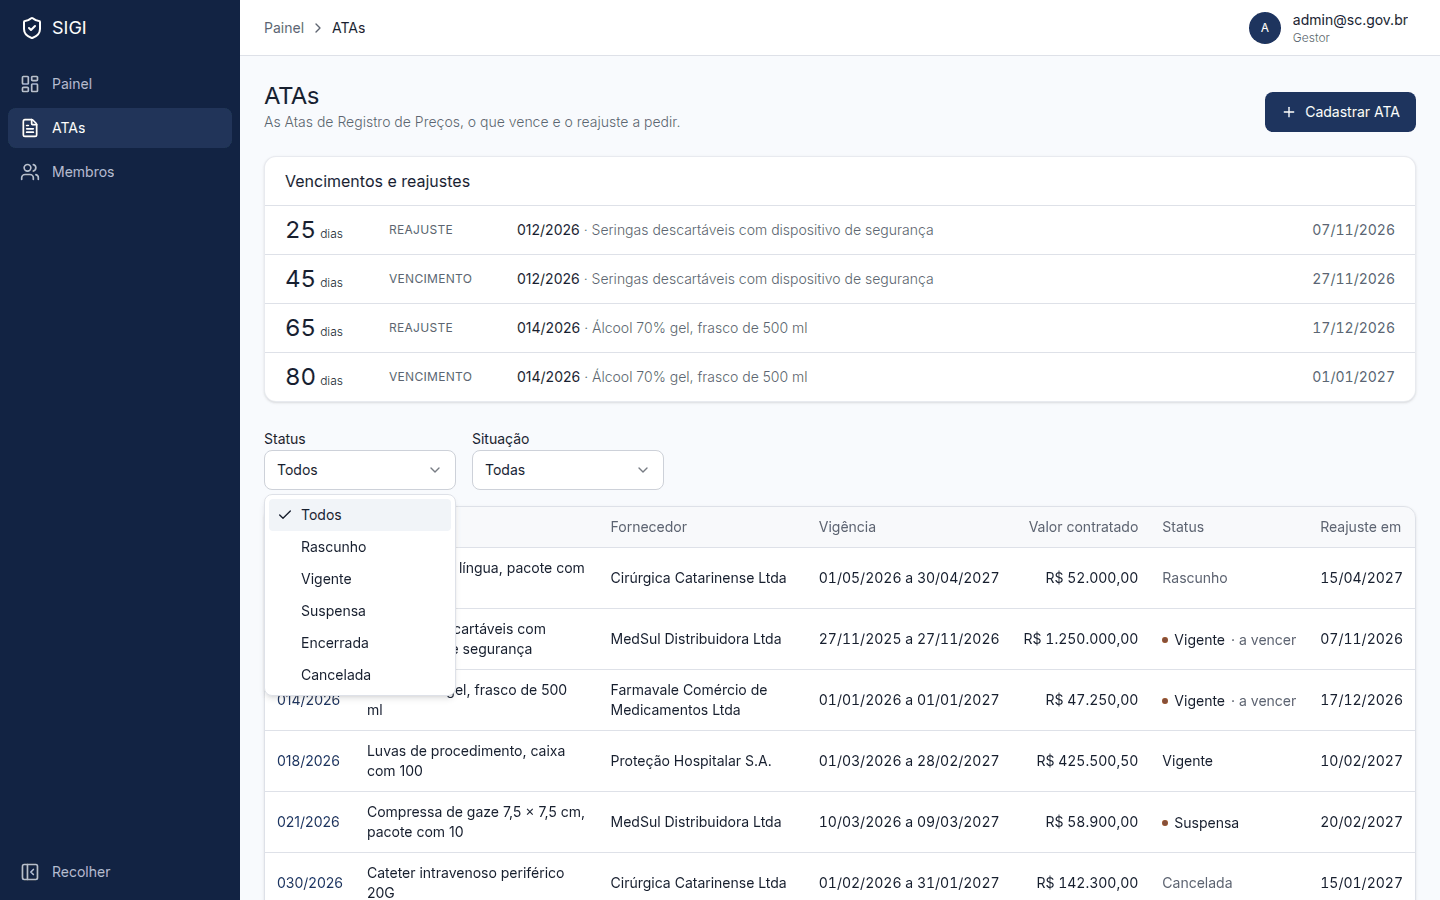
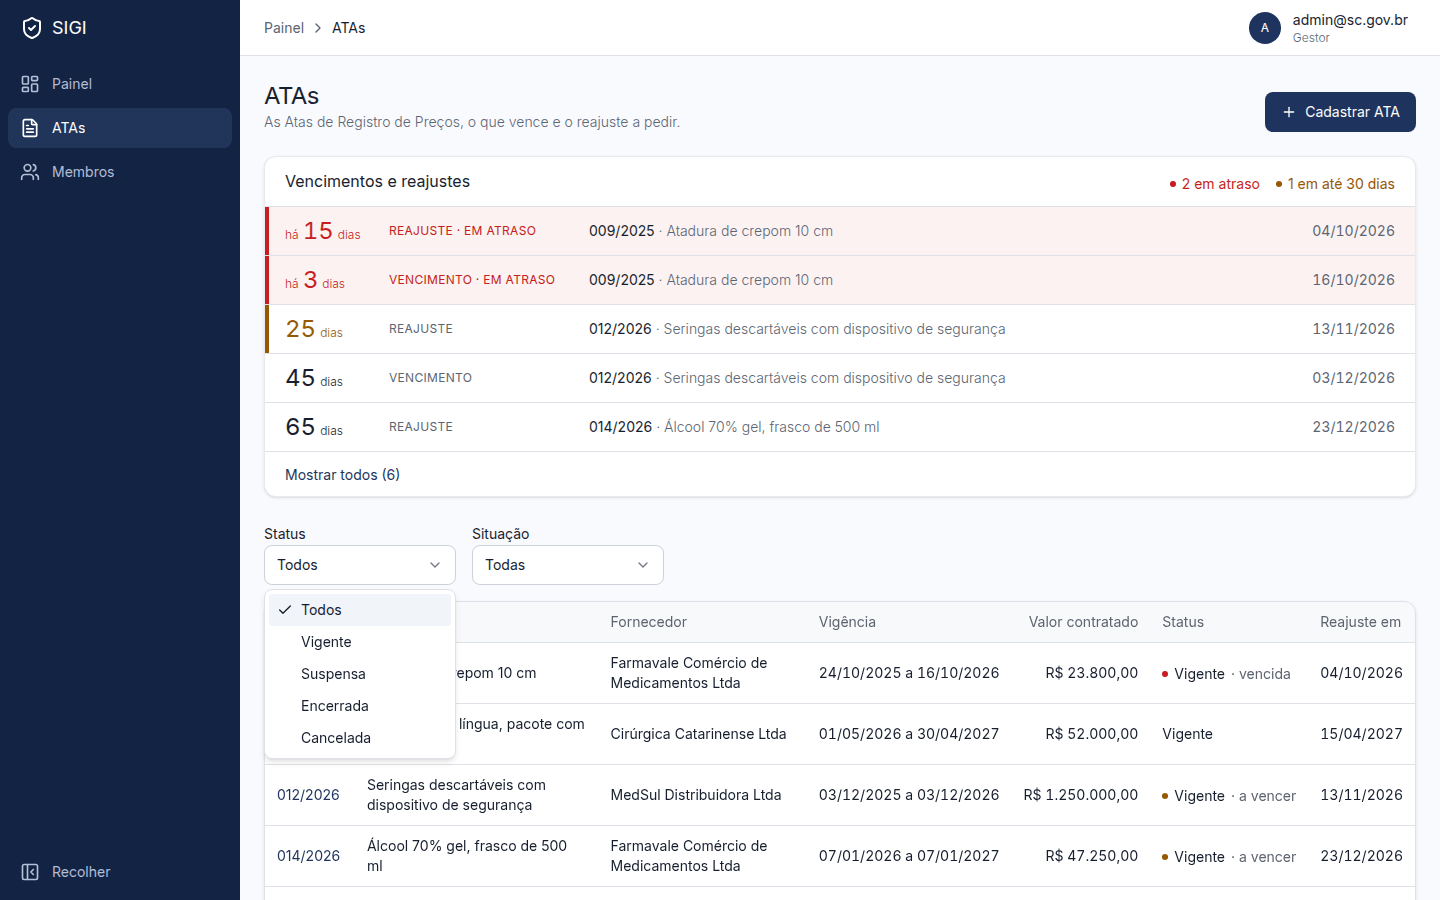
docs: update the ATA user flow, design rules and open questions for the review step [SPEC-0013]
Claude-Session: https://claude.ai/code/session_019RhEfvDpREPTTn55Dme5Wi

diff --git a/docs/product/user-flows/atas.md b/docs/product/user-flows/atas.md
@@ -6,7 +6,7 @@ something is refused. The behaviour is SPEC-0013's (screens) and SPEC-0002's
 (rules); where this file and a spec disagree, the spec wins.
 
 The screenshots under [`atas/`](atas/) were taken from the running application
-on 13/10/2026, with fictional ATAs and fornecedores, in a 1440 px browser set
+on 19/10/2026, with fictional ATAs and fornecedores, in a 1440 px browser set
 to pt-BR. A screenshot ages with the screen: retake it in the PR that changes
 what it shows.
 
@@ -17,7 +17,7 @@ what it shows.
 | See the list, the alerts and any ATA | ✓ | ✓ | ✓ |
 | Cadastrar ATA | ✓ | — | — |
 | Editar | ✓ | — | — |
-| Ativar, Suspender, Retomar, Encerrar, Cancelar | ✓ | — | — |
+| Suspender, Retomar, Encerrar, Cancelar | ✓ | — | — |
 | Registrar aditivo | ✓ | — | — |
 | Registrar pedido de reajuste | ✓ | — | — |
 | Delete an ATA | — | — | — |
@@ -32,10 +32,12 @@ flowchart LR
   sidebar[Sidebar: ATAs] --> lista["/atas"]
   lista -->|row or alert| ata["/atas/{id}"]
   lista -->|Cadastrar ATA| cadastro["/atas/nova"]
-  cadastro -->|201| ata
+  cadastro -->|Revisar cadastro| revisao[Confira os dados]
+  revisao -->|Voltar e corrigir| cadastro
+  revisao -->|Confirmar cadastro, 201| ata
   cadastro -->|Voltar| lista
   ata -->|Editar| edicao["/atas/{id}/editar"]
-  ata -->|Ativar, Suspender, Retomar, Encerrar| confirmacao[Confirmation]
+  ata -->|Suspender, Retomar, Encerrar| confirmacao[Confirmation]
   ata -->|Cancelar| cancelamento[Confirmation with Justificativa]
   ata -->|Registrar aditivo| aditivo[Dialog: Registrar aditivo]
   ata -->|Registrar pedido de reajuste| reajuste[Dialog: Registrar pedido de reajuste]
@@ -50,13 +52,11 @@ flowchart LR
 
 ```mermaid
 stateDiagram-v2
-  [*] --> rascunho: Cadastrar ATA
-  rascunho --> vigente: Ativar
+  [*] --> vigente: Confirmar cadastro
   vigente --> suspensa: Suspender
   suspensa --> vigente: Retomar
   vigente --> encerrada: Encerrar
   suspensa --> encerrada: Encerrar
-  rascunho --> cancelada: Cancelar (justificativa)
   vigente --> cancelada: Cancelar (justificativa)
   suspensa --> cancelada: Cancelar (justificativa)
   encerrada --> [*]
@@ -81,9 +81,9 @@ the situação only where it says something (DESIGN.md §4):
 | Vigente | A vencer | Vigente · a vencer | amber dot |
 | Vigente | Vencida | Vigente · vencida | red dot |
 | Suspensa | any | Suspensa (· a vencer, · vencida) | amber dot, red when vencida |
-| Rascunho, Encerrada, Cancelada | any | Rascunho, Encerrada, Cancelada | grey text |
+| Encerrada, Cancelada | any | Encerrada, Cancelada | grey text |
 
-A rascunho or an encerrada ATA still has a situação, and the Situação filter
+An encerrada or cancelada ATA still has a situação, and the Situação filter
 still finds it, but it is not shown, because nobody acts on it. The 90 days are
 configurable (`ATA_ALERT_DAYS`).
 
@@ -164,11 +164,20 @@ reads as empty.
 the way the ATA page groups them: **Identificação** (Número, Órgão, Objeto),
 **Fornecedor** (CNPJ, Razão social), **Vigência** (Início, Fim, Data de
 emissão) and **Valores** (Valor total, Data do orçamento planilhado). "Voltar"
-and "Cadastrar" stay at the foot of the screen however far down the page is
-scrolled. The ATA is created as a **rascunho**: it counts for nothing until a
-gestor activates it. "Voltar" returns to the list and saves nothing.
+and "Revisar cadastro" stay at the foot of the screen however far down the page
+is scrolled. "Voltar" returns to the list and saves nothing.
 
-![The empty dialog](atas/05-cadastrar-vazio.png)
+**Nothing is saved until the gestor confirms.** "Revisar cadastro" shows every
+value as it will be saved; "Confirmar cadastro" saves the ATA, **vigente** from
+that moment. There is no rascunho and no activation step.
+
+![The empty form](atas/05-cadastrar-vazio.png)
+
+Every field has an **"i"** beside its label. Choosing it (click, Enter or
+Space) opens what the field is and what the system accepts; Escape or a click
+anywhere else closes it.
+
+![A field's explanation](atas/07-ajuda-campo.png)
 
 ### Fields
 
@@ -177,7 +186,7 @@ gestor activates it. "Voltar" returns to the list and saves nothing.
 | Número | Yes | Up to 60 characters, unique among all ATAs | Not empty | "Use no máximo 60 caracteres." · "Já existe uma ATA com este número. Confira o número ou abra a existente." |
 | Objeto | Yes | Free text | Not empty | "Campo obrigatório." |
 | Órgão | Yes | Up to 200 characters | Not empty | "Use no máximo 200 caracteres." |
-| CNPJ do fornecedor | Yes | 14 digits with valid check digits, typed with or without punctuation; shown as 00.000.000/0000-00 while typing | Not empty | "CNPJ inválido." (wrong length, wrong check digits, or all digits equal) |
+| CNPJ do fornecedor | Yes | 14 characters with valid check digits, typed with or without punctuation; since 2026 the first 12 may be letters (alphanumeric CNPJ); shown as 00.000.000/0000-00 while typing, letters uppercased | Not empty | "CNPJ inválido." (wrong length, wrong check digits, letters in the check digits, or one character repeated) |
 | Razão social | Yes | Up to 200 characters | Not empty | "Use no máximo 200 caracteres." |
 | Data de emissão (opcional) | No | A date | — | "Data inválida." |
 | Início da vigência | Yes | A date | Not empty | "Data inválida." |
@@ -193,26 +202,35 @@ typed. There is no separate fornecedor screen.
 **Money is never rounded.** "10,005" is sent as `10.005` and refused; it is
 not turned into 10,01.
 
-### What happens on Cadastrar
+### What happens on Revisar cadastro and Confirmar cadastro
 
 1. The screen checks only that every required field is filled. An empty one
-   reads "Campo obrigatório." and nothing is sent.
+   reads "Campo obrigatório." and the review does not open.
 
    ![Required fields left empty](atas/06-cadastrar-obrigatorios.png)
 
-2. The API checks the rest. Each refusal appears under the field it names, the
-   field is outlined in red, the cursor moves to the first one, and everything
-   typed stays. The API reports schema errors (lengths, formats) all at once,
-   and business errors (vigência, CNPJ, número repetido) one at a time, so
-   fixing one may reveal the next.
+2. **Confira os dados antes de cadastrar** lists every value as it will be
+   saved: dates as dd/MM/yyyy, money as R$, an empty optional field as "Não
+   informado". Nothing has been sent yet. "Voltar e corrigir" returns to the
+   form with everything typed kept.
 
-   ![A CNPJ with wrong check digits](atas/07-cadastrar-cnpj-invalido.png)
+   ![The review](atas/08-revisar-cadastro.png)
 
-   ![A número already in use](atas/08-cadastrar-numero-duplicado.png)
+3. "Confirmar cadastro" sends it. The API checks the rest; if it refuses, the
+   form returns and each refusal appears under the field it names, the field is
+   outlined in red, the cursor moves to the first one, and everything typed
+   stays. The API reports schema errors (lengths, formats) all at once, and
+   business errors (vigência, CNPJ, número repetido) one at a time, so fixing
+   one may reveal the next.
 
-3. On success the ATA's page opens with "ATA cadastrada como rascunho."
+   ![A CNPJ with wrong check digits](atas/09-cadastrar-cnpj-invalido.png)
 
-   ![The new ATA](atas/09-ata-cadastrada.png)
+   ![A número already in use](atas/10-cadastrar-numero-duplicado.png)
+
+4. On success the new ATA's page opens, vigente. No banner repeats it: the page
+   is the result.
+
+   ![The new ATA](atas/11-ata-cadastrada.png)
 
 ---
 
@@ -240,24 +258,22 @@ ATAs**.
 
 ## 4. Edit an ATA (gestor)
 
-**Editar** opens `/atas/{id}/editar`, the registration page filled in. Only the
-fields that changed are sent; on success the ATA's page opens with "ATA
-atualizada.". "Voltar" returns to the ATA and saves nothing.
+**Editar** corrects what was typed. It opens `/atas/{id}/editar`, the
+registration page filled in, and saves directly, without a review. Only the
+fields that changed are sent; on success the ATA's page opens with the new
+values and no banner. "Voltar" returns to the ATA and saves nothing.
 
 | Status | What can be edited |
 | --- | --- |
-| Rascunho | Every field, including Número, the fornecedor, the dates and the valor |
-| Vigente, Suspensa, Encerrada, Cancelada | Objeto and Órgão only |
+| Vigente, Suspensa | Every field, including Número, the fornecedor, the dates and the valor |
+| Encerrada, Cancelada | Nothing: "Editar" is not offered, and the address reads "Uma ATA encerrada ou cancelada não pode ser editada." |
 
-![Editing a rascunho](atas/10-editar-rascunho.png)
+![Correcting an ATA](atas/12-editar.png)
 
-After activation the other fields are shown greyed out, with "Depois de
-ativada, valores e prazos só mudam por aditivo." The contracted figures change
-only through an aditivo, so what was contracted is never overwritten. If the
-API refuses an edit because the ATA changed meanwhile (`ATA_NAO_EDITAVEL`), the
-message shows on the page and the form reloads the ATA as it now is.
-
-![Editing after activation](atas/13-editar-vigente.png)
+**Editar or aditivo?** Editar corrects a typing mistake; an aditivo changes what
+was contracted, with a justification and the 25% ceiling. Both keep the previous
+values in the ATA's history. Once NEs exist (SPEC-0004), an ATA with an NE
+emitida locks its figures and only an aditivo changes them.
 
 The same field rules as registration apply; a refusal lands on its field.
 
@@ -270,18 +286,15 @@ naming the ATA and what the move does.
 
 | Status | Buttons offered | Result |
 | --- | --- | --- |
-| Rascunho | Ativar, Cancelar | Ativar → Vigente |
 | Vigente | Suspender, Encerrar, Cancelar | Suspender → Suspensa · Encerrar → Encerrada |
 | Suspensa | Retomar, Encerrar, Cancelar | Retomar → Vigente · Encerrar → Encerrada |
 | Encerrada | None | Final |
 | Cancelada | None | Final |
 
-![Confirming Ativar](atas/11-ativar-confirmar.png)
+![Confirming Suspender](atas/13-suspender-confirmar.png)
 
-On success the status line changes and the page says "ATA ativada.", "ATA
-suspensa.", "ATA retomada.", "ATA encerrada." or "ATA cancelada.".
-
-![After activation](atas/12-ata-ativada.png)
+On success the status line changes. No banner is shown; a screen reader hears
+"ATA suspensa.", "ATA retomada.", "ATA encerrada." or "ATA cancelada.".
 
 ![A suspended ATA](atas/18-ata-suspensa.png)
 
@@ -295,7 +308,7 @@ audit trail. The confirmation's own close button reads "Voltar", because
 ![Cancelar with a justificativa](atas/20-cancelar-com-justificativa.png)
 
 Encerrar and Cancelar cannot be undone. An encerrada or cancelada ATA offers no
-move, and Editar there changes only Objeto and Órgão.
+move and no Editar.
 
 ![A cancelled ATA](atas/21-ata-cancelada.png)
 
@@ -311,7 +324,7 @@ the ATA with its real status.
 ## 6. Register an aditivo (gestor, vigente ATA only)
 
 **Registrar aditivo** in the Aditivos section. Not offered unless the ATA is
-vigente; a suspended ATA must be resumed first.
+vigente; a suspended ATA must be resumed first. Each field has its "i", as in the registration.
 
 | Field | Required | Accepts | Refused with |
 | --- | --- | --- | --- |
@@ -329,8 +342,8 @@ takes the sum past it. The API computes this; the screen does not.
 
 ![An aditivo de prazo](atas/15-aditivo-prazo.png)
 
-On success the aditivo appears in the table and the page says "Aditivo
-registrado.". An aditivo de valor raises Valor contratado; an aditivo de prazo
+On success the dialog closes and the aditivo appears in the table, with no
+banner. An aditivo de valor raises Valor contratado; an aditivo de prazo
 moves Fim da vigência and takes its Vencimento row out of **Vencimentos e reajustes**. Aditivos
 cannot be edited or removed.
 
@@ -351,8 +364,8 @@ Only the format is checked; SIGI does not look the process up in SEI.
 
 ![A malformed Processo SEI](atas/16-reajuste-sei-invalido.png)
 
-On success the pedido appears in the table, the page says "Pedido de reajuste
-registrado.", and its Reajuste row leaves **Vencimentos e reajustes**. Recording a pedido
+On success the dialog closes and the pedido appears in the table, with no
+banner, and its Reajuste row leaves **Vencimentos e reajustes**. Recording a pedido
 changes no price.
 
 ![An ATA with aditivos and a pedido de reajuste](atas/17-ata-com-registros.png)

diff --git a/docs/open-questions.md b/docs/open-questions.md
@@ -69,10 +69,11 @@ shows. OQ-46 opens for the quarantine.
 | OQ-42 | How many days before a reajuste falls due should the alert fire, does the right lapse after the date, and is the date per ATA or per item? | SPEC-0002 | The stakeholder asked for an alert on the reajuste (question 2) and gave no lead time. **Assumed:** 90 days, configurable, the same as the vigência alert (RF19); the alert stays on until a request is recorded, whether or not the date has passed; the date is per ATA, from its `data_orcamento_planilhado`. The source sheet keeps `DATA LIMITE REAJUSTE` per item, so a per-item date may be needed later. | **Assumed** |
 | OQ-43 | Does every item carry a SKU, can it repeat, and who keeps the SKU sheet? | SPEC-0003 | **Answered 2026-10-06.** *"Todo item dentro do estoque da Branet tem um código de integração, o SKU utiliza o código de integração. Nem um item pode ter o código repitido porém é necessário flexibilidade para alterar/adicionar novos códigos pois compramos muitos itens pela primeira vez."* So every item has one and none repeats; a gestor can change a SKU with a justification and any servidor registers a new insumo with a new one (SPEC-0003 AC-0003-01, -04). Who keeps the sheet was not answered, and the build does not need it. | **Resolved** |
 | OQ-44 | Is the entity state or municipal? | README, glossary | The project describes a **state** government entity throughout; the stakeholder's answer (question 11) says *"registro na prefeitura"*. It may be a slip of the tongue. It matters for the legal references (Lei 14.133 applies to both), for the identity provider and for what a servidor's registration number is called. *(2026-10-13, product owner)* Not needed for the MVP: nothing built depends on it, since Lei 14.133 applies to both. The docs keep "state". | **Resolved** |
-| OQ-45 | What are an ATA's lifecycle moves, which fields stay editable after activation, and who records an aditivo or a reajuste request? | SPEC-0002 | Nobody at the entity has described it. **Assumed for the MVP:** rascunho to vigente, vigente and suspensa both ways, vigente or suspensa to encerrada, any open state to cancelada with a justification; after activation only objeto, orgao and responsavel are editable, the figures change by aditivo; only a gestor writes, because RN04 names the gestor and nobody named anyone else; a suspended ATA takes no new NE. An aditivo of value is capped at 25% of the original valor (RF15). | **Assumed** |
+| OQ-45 | What are an ATA's lifecycle moves, which fields stay editable after activation, and who records an aditivo or a reajuste request? | SPEC-0002 | Nobody at the entity has described it. **Assumed for the MVP:** rascunho to vigente, vigente and suspensa both ways, vigente or suspensa to encerrada, any open state to cancelada with a justification; after activation only objeto, orgao and responsavel are editable, the figures change by aditivo; only a gestor writes, because RN04 names the gestor and nobody named anyone else; a suspended ATA takes no new NE. An aditivo of value is capped at 25% of the original valor (RF15). *(2026-10-19, product owner)* Decided for the MVP after testing the screens: there is no rascunho, an ATA is registered vigente after the gestor reviews it, and a gestor corrects any field of a vigente or suspensa ATA with the prior values audited, the figures locking once an NE exists (SPEC-0002 v1.2). What remains for the stakeholder is whether this matches how the team works. | **Assumed** |
 | OQ-46 | How is an NF with a problem handled, and what if its quantity is above what the NE still waits for? | SPEC-0005, SPEC-0006 | The stakeholder wants *"uma maneira de destacar que o item chegou porém está em quarentena"* when there is a problem with the note or the material, and did not say more. **Assumed for the MVP:** a flag with a reason on the NF (not a fifth status); its lines do not count in `quantidade_faltante` until a gestor releases it; it cannot be approved while held; a line above `quantidade_faltante` is refused with `QUANTIDADE_ACIMA_DO_EMPENHO`, as RN12 does for value. | **Assumed** |
 | OQ-47 | How many days before a vencimento or a reajuste should SIGI show it as close, in amber, rather than simply upcoming? | SPEC-0013 | The product owner asked that a vencimento "really close" or past be recognised at a glance (2026-10-13). Past is unambiguous and shows in red. **Assumed:** 30 days counts as close, a third of the 90-day alert window (OQ-42); no stakeholder has named a figure. The value is one constant, `SOON_DAYS` in `frontend/lib/atas/constants.ts`. *(2026-10-13, product owner)* Decided: 30 days. It was the product owner's request, so the product owner's figure. | **Resolved** |
 | OQ-48 | Where does SIGI run: on the entity's own servers, as ADR-0001 assumes, or in a cloud such as GCP? | ADR-0001, OQ-32 | *(2026-10-13)* The product owner thinks the entity uses GCP; not confirmed. Docker Compose runs on either, so nothing built changes, but the answer decides the trusted-proxy list (OQ-32), backups and where the database lives. | **Open** |
+| OQ-49 | Should registering an ATA accept a vigência that has already ended, and how does the history of past ATAs enter SIGI? | SPEC-0002, SPEC-0013 | *(2026-10-19, product owner)* "Depende." Found while testing: a vigência of 01/01/1999 to 01/01/2000 was accepted, since only the order of the dates is checked. Refusing it catches typing mistakes; accepting it lets past ATAs be recorded. Until decided, it is accepted, as built. For loading the history, the recommendation is a backend command that imports a CSV through the same service, so every row is validated and gets its audit entry (ADR-0002), rather than a script writing to the database, which would skip both and need the owner role. Its own spec when needed. | **Open** |
 
 ## How to use this file
 

diff --git a/CHANGELOG.md b/CHANGELOG.md
@@ -32,6 +32,18 @@ entries are moved into a new dated version section — see
 
 ### Changed
 
+- Registering an ATA ends in a review, "Confira os dados antes de cadastrar", and saves only on
+  "Confirmar cadastro". The ATA is vigente from that moment: there is no rascunho and no
+  "Ativar" (SPEC-0002 v1.2, SPEC-0013 v1.7). Migration `0004_ata_sem_rascunho` moves any
+  rascunho to vigente.
+- "Editar" corrects every field of a vigente or suspensa ATA, the figures included, with the
+  previous values in the audit trail; an encerrada or cancelada ATA is not edited
+  (AC-0002-24). Once NEs exist, an NE emitida locks the figures (AC-0002-26, SPEC-0004).
+- No success banner after a write on the ATA screens: the result is the confirmation, and
+  assistive technology still hears it (DESIGN.md §4 Notice).
+- Every field of the ATA form and dialogs explains itself behind an "i" (AC-0013-19, DESIGN.md
+  §4 Field help).
+
 - Status reads as text, never as a pill badge (DESIGN.md §4): the word in the body colour, a
   small dot only when it needs attention, and finished states in grey. An ATA's status and
   situação become one line ("Vigente · a vencer"); member status follows the same rule.
@@ -47,6 +59,9 @@ entries are moved into a new dated version section — see
   withdraws AC-0011-13 and -14). Who is signed in moves to the page header.
 
 ### Fixed
+
+- The alphanumeric CNPJ the Receita Federal issues since July 2026 (IN RFB nº 2.229/2024) was
+  refused; it is accepted and stored uppercased (AC-0002-25).
 
 - The ORM model of `sessao` listed `lockout` where migration 0001 created `bloqueio` in
   `ck_sessao_motivo_valor`. The database was right and the code only ever wrote

diff --git a/DESIGN.md b/DESIGN.md
@@ -174,7 +174,8 @@ tokens above. Prefer extending one of these to adding a new one.
 | **Menu** | Opens from its trigger and is not modal: the page behind stays readable by assistive technology, and Escape, Tab or a click outside closes it. Row actions and the user menu use it. |
 | **Dialog** | Centred, `max-w-xl` for forms, `max-w-md` for confirmations. Destructive confirmations use `AlertDialog` and name the consequence ("não pode ser desfeita"). |
 | **Error notice** | Red-tinted box with the API's message, followed by the gestor contact when the servidor cannot fix it alone (AC-0010-57). |
-| **Notice** | Success or information after an action, in a tinted box with `role="status"`. |
+| **Notice** | Information a person needs before acting, in a tinted box with `role="status"`. Never success: a write's result is the confirmation (the new status, the new row, the page that opens), so no banner repeats it; assistive technology still hears it through a visually hidden `role="status"`. |
+| **Field help** | An "i" beside a label (`components/ui/info-tip.tsx`) that opens the field's explanation below the label by click, Enter or Space, and closes on Escape or a click elsewhere. Never "!", which reads as a warning, and never on hover alone, which a phone and a keyboard cannot reach. The text states what the API enforces, objectively. |
 | **Toast** | Sonner, top right, for confirmations that need no reading ("Convite criado"). Never for errors a person must act on: those stay on the page. |
 | **Icons** | `lucide-react`, 16 px in controls, 20 px in tiles and the sidebar, `aria-hidden` next to a label. |
 

diff --git a/docs/design/changes/README.md b/docs/design/changes/README.md
@@ -7,3 +7,4 @@ and `<screen>-after.png` taken from the same data.
 | Change | DESIGN.md | Screens |
 | --- | --- | --- |
 | [2026-10-13-status-text](2026-10-13-status-text/) | §4 Status: text, never a pill | ATAs, an ATA, Membros |
+| [2026-10-19-ata-review](2026-10-19-ata-review/) | §4 Notice: never success · Field help | Nova ATA, an ATA after registering |
